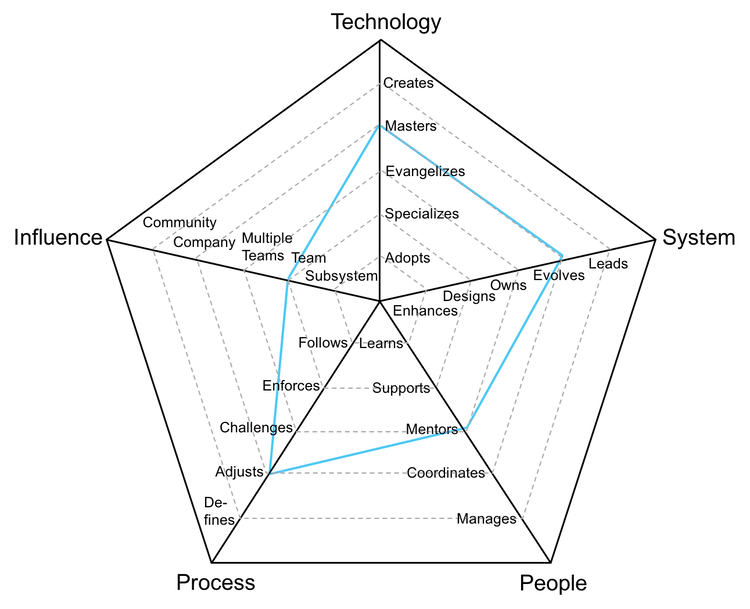
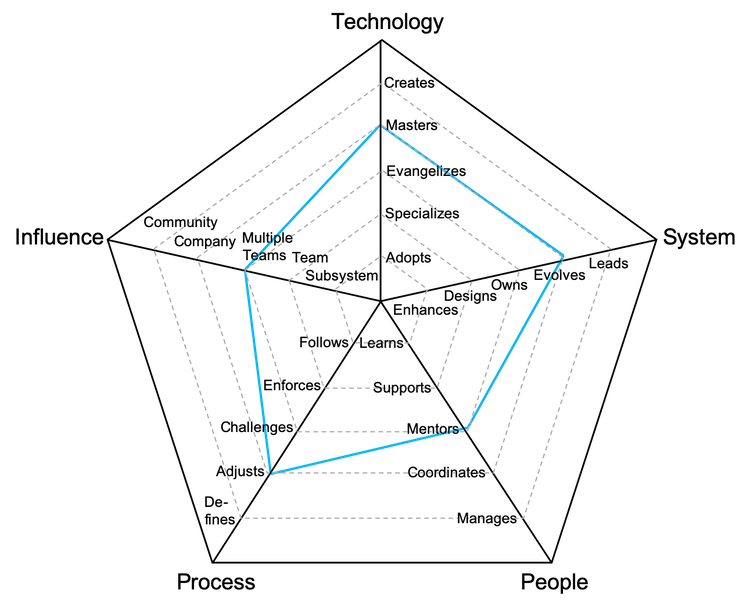
Added individual roles

diff --git a/README.md b/README.md
@@ -1,6 +1,15 @@
-# Engineering Ladders
+- [Introduction](#introduction)
+- [Career Ladders](#career-ladders)
+- [Axes](#axes)
+- [Levels](#levels)
+  - [Technology](#technology)
+  - [System](#system)
+  - [People](#people)
+  - [Process](#process)
+  - [Influence](#influence)
+- [FAQs](#faqs)
 
-## Introduction
+# Introduction
 
 This framework allows software engineering managers to have meaningful conversations with direct reports around the expectations of each position and how to plan for the next level in their career ladder.
 
@@ -10,12 +19,35 @@ The framework relies heavily in radar charts to show visually the different pers
 
 ![Template Chart](charts/template.png)
 
+# Career Ladders
+
+The framework has 4 different ladders:
+
+* [**Developer**](Developer.md): role also known as programmer or software engineer, requires a deep level of technical expertise
+* [**Tech Lead**](TechLead.md): role also known as dev lead, owns the system and requires a unique balance between hands-on development, architecture knowledge and production support
+* [**Technical Program Manager**](TechnicalProgramManager.md): role responsible for coordinating and driving to completion initiatives that expand multiple teams
+* [**Engineering Manager**](EngineeringManager.md): role also known as dev manager, is reponsible for the consisten delivery, career growth and level of happiness of the team
+
+| Level | Seniority | [Developer](Developer.md) | [Tech Lead](TechLead.md) | [Technical Program Manager](TechnicalProgramManager.md) | [Engineering Manager](EngineeringManager.md) |
+| :---: | :---: | :---: | :---: | :---: |  :---: |
+| 1 | Junior | [D1](Developer.md#d1---developer-1) | | | |
+| 2 | Junior | [D2](Developer.md#d2---developer-2) | | | |
+| 3 | Junior | [D3](Developer.md#d3---developer-3) | | | |
+| 4 | Senior | [D4](Developer.md#d4---developer-4) | [TL4](TechLead.md#tl4---tech-lead-4) | [TPM4](TechnicalProgramManager.md#tpm4---technical-program-manager-4) | |
+| 5 | Senior | [D5](Developer.md#d5---developer-5) | [TL5](TechLead.md#tl5---tech-lead-5) | [TPM5](TechnicalProgramManager.md#tpm5---technical-program-manager-5) | [EM5](EngineeringManager.md#em5---engineering-manager-5) |
+| 6 | Senior | [D6](Developer.md#d6---developer-6) | [TL6](TechLead.md#tl6---tech-lead-6) | [TPM6](TechnicalProgramManager.md#tpm6---technical-program-manager-6) | [EM6](EngineeringManager.md#em6---engineering-manager-6) |
+| 7 | Senior | [D7](Developer.md#d7---developer-7) | [TL7](TechLead.md#tl7---tech-lead-7) | [TPM7](TechnicalProgramManager.md#tpm7---technical-program-manager-7) | [EM7](EngineeringManager.md#em7---engineering-manager-7) |
+
+(click on position name for more details)
+
+# Axes
+
 The chart above has 5 axes:
 * **Technology**: knowledge of the tech stack and tools
 * **System**: level of ownership of the system(s)
 * **People**: relationship with the team(s)
 * **Process**: level of engagement with the development process
-* **Influence**: scope of influence of the person
+* **Influence**: scope of influence of the position
 
 The **influence** axis can be seen as a *different dimension* since it is orthogonal and applies to all the other axes.
 
@@ -23,9 +55,9 @@ Each axis has 5 different levels of performance. It is important to highlight th
 
 Keep reading to better understand each level.
 
-## Levels
+# Levels
 
-### Technology
+## Technology
 
 1. **Adopts**: actively learns and adopts the technology and tools defined by the team
 2. **Specializes**: is the go-to person for one or more technologies and takes initiative to learn new ones
@@ -33,7 +65,7 @@ Keep reading to better understand each level.
 4. **Masters**: has very deep knowledge about the whole technology stack of the system
 5. **Creates**: designs and creates new technologies that are widely used either by internal or external teams
 
-### System
+## System
 
 1. **Enhances**: successfully pushes new features and bug fixes to improve and extend the system
 2. **Designs**: designs and implements medium to large size features while reducing the system's tech debt
@@ -41,7 +73,7 @@ Keep reading to better understand each level.
 4. **Evolves**: evolves the architecture to support future requirenments and defines its SLAs
 5. **Leads**: leads the technical excellence of the system and creates plans to mitigate outages
 
-### People
+## People
 
 1. **Learns**: quickly learns from others and consistently steps up when it is required
 2. **Supports**: proactively supports other team members and helps them to be successful
@@ -49,7 +81,7 @@ Keep reading to better understand each level.
 4. **Coordinates**: coordinates team members providing effective feedback and moderating discussions
 5. **Manages**: manages the team members' career, expectations, performance and level of happiness
 
-### Process
+## Process
 
 1. **Follows**: follows the team processes, delivering a consistent flow of features to production
 2. **Enforces**: enforces the team processes, making sure everybody understands the benefits and tradeoffs
@@ -57,7 +89,7 @@ Keep reading to better understand each level.
 4. **Adjusts**: adjusts the team processes, listening to feedback and guiding the team through the changes
 5. **Defines**: defines the right processes for the team's maturity level, balancing agility and discipline
 
-### Influence
+## Influence
 
 1. **Subsystem**: makes an impact on one or more subsystems or team pods
 2. **Team**: makes an impact on the whole team, not just on specific parts of it
@@ -65,25 +97,16 @@ Keep reading to better understand each level.
 4. **Company**: makes an impact on the whole tech organization
 5. **Community**: makes an impact on the tech community
 
-## Career Ladders
+# FAQs
 
-* **Developer**: role also known as programmer or software engineer, requires a deep level of technical expertise
-* **Tech Lead**: also known as dev lead, owns the system and requires a unique balance between hands-on development, architecture knowledge and production support
-* **TPM**: the technical project (or program) manager role is usually responsible for coordinating initiatives that expand multiple teams
-* **Engineering Manager**: role sometimes known as dev manager, is reponsible for the consisten delivery, career growth and level of happiness of the team
+**What if some of the people don't fit all the points?**
 
-| Level | Developer | Tech Lead | TPM | Engineering Manager |
-| :---: | :---: | :---: | :---: | :---: |
-| 1 | D1 | | | |
-| 2 | D2 | | | |
-| 3 | D3 | | | |
-| 4 | D4 | TL4 | TPM4 | |
-| 5 | D5 | TL5 | TPM5 | EM5 |
-| 6 | D6 | TL6 | TPM6 | EM6 |
-| 7 | D7 | TL7 | TPM7 | EM7 |
+That is very normal, people are usually stronger in some areas and weaker in others. The framework should not be used as a checklist to promote people but instead as guidance to have meaningful career conversations.
 
-(links for each level to come)
+**When is a person ready to move to the next level**
 
-### Why does the framework stop at level 7?
+Companies usually expect a person to be performing at the next level *consistently for several months* before formalizing the promotion.
+
+**Why does the framework stop at level 7?**
 
 Levels 8 and above vary drastically from company to company. Organizations of different sizes tend to assign inconsistent levels of responsibility to positions so high in their structure.

diff --git a/Developer.md b/Developer.md
@@ -1,0 +1,83 @@
+# Developer
+
+Role also known as programmer or software engineer, requires a deep level of technical expertise.
+
+| Level | Seniority | Position |
+| :---: | :---: | :---: |
+| 1 | Junior | [D1 - Developer 1](#d1---developer-1) |
+| 2 | Junior | [D2 - Developer 2](#d2---developer-2) |
+| 3 | Junior | [D3 - Developer 3](#d3---developer-3) |
+| 4 | Senior | [D4 - Developer 4](#d4---developer-4) |
+| 5 | Senior | [D5 - Developer 5](#d5---developer-5) |
+| 6 | Senior | [D6 - Developer 6](#d6---developer-6) |
+| 7 | Senior | [D7 - Developer 7](#d7---developer-7) |
+
+## D1 - Developer 1
+
+![Developer 1](/charts/developer-1.png)
+
+* **Adopts**: actively learns and adopts the technology and tools defined by the team
+* **Enhances**: successfully pushes new features and bug fixes to improve and extend the system
+* **Learns**: quickly learns from others and consistently steps up when it is required
+* **Follows**: follows the team processes, delivering a consistent flow of features to production
+* **Subsystem**: makes an impact on one or more subsystems or team pods
+
+## D2 - Developer 2
+
+![Developer 2](/charts/developer-2.png)
+
+* **Adopts**: actively learns and adopts the technology and tools defined by the team
+* **Designs**: designs and implements medium to large size features while reducing the system's tech debt
+* **Supports**: proactively supports other team members and helps them to be successful
+* **Enforces**: enforces the team processes, making sure everybody understands the benefits and tradeoffs
+* **Subsystem**: makes an impact on one or more subsystems or team pods
+
+## D3 - Developer 3
+
+![Developer 3](/charts/developer-3.png)
+
+* **Specializes**: is the go-to person for one or more technologies and takes initiative to learn new ones
+* **Designs**: designs and implements medium to large size features while reducing the system's tech debt
+* **Supports**: proactively supports other team members and helps them to be successful
+* **Challenges**: challenges the team processes, looking for ways to improve them
+* **Team**: makes an impact on the whole team, not just on specific parts of it
+
+## D4 - Developer 4
+
+![Developer 4](/charts/developer-4.png)
+
+* **Evangelizes**: researches, creates proofs of concept and introduces new technologies to the team
+* **Owns**: owns the production operation and monitoring of the system and is aware of its SLAs
+* **Mentors**: mentors other to accelerate their career-growth and encourages them to participate
+* **Challenges**: challenges the team processes, looking for ways to improve them
+* **Team**: makes an impact on the whole team, not just on specific parts of it
+
+## D5 - Developer 5
+
+![Developer 5](/charts/developer-5.png)
+
+* **Masters**: has very deep knowledge about the whole technology stack of the system
+* ***Evolves**: evolves the architecture to support future requirenments and defines its SLAs
+* **Mentors**: mentors other to accelerate their career-growth and encourages them to participate
+* **Adjusts**: adjusts the team processes, listening to feedback and guiding the team through the changes
+* **Multiple Teams**: makes an impact not only on the whole team but also on other teams
+
+## D6 - Developer 6
+
+![Developer 6](/charts/developer-6.png)
+
+* **Creates**: designs and creates new technologies that are widely used either by internal or external teams
+* **Leads**: leads the technical excellence of the system and creates plans to mitigate outages
+* **Mentors**: mentors other to accelerate their career-growth and encourages them to participate
+* **Adjusts**: adjusts the team processes, listening to feedback and guiding the team through the changes
+* **Company**: makes an impact on the whole tech organization
+
+## D7 - Developer 7
+
+![Developer 7](/charts/developer-7.png)
+
+* **Creates**: designs and creates new technologies that are widely used either by internal or external teams
+* **Leads**: leads the technical excellence of the system and creates plans to mitigate outages
+* **Mentors**: mentors other to accelerate their career-growth and encourages them to participate
+* **Adjusts**: adjusts the team processes, listening to feedback and guiding the team through the changes
+* **Community**: makes an impact on the tech community

diff --git a/TechnicalProgramManager.md b/TechnicalProgramManager.md
@@ -1,0 +1,51 @@
+# Technical Program Manager
+
+Role responsible for coordinating and driving to completion initiatives that expand multiple teams.
+
+| Level | Seniority | Position |
+| :---: | :---: | :---: |
+| 4 | Senior | [TPM4 - Technical Program Manager 4](#tpm4---technical-program-manager-4) |
+| 5 | Senior | [TPM5 - Technical Program Manager 5](#tpm5---technical-program-manager-5) |
+| 6 | Senior | [TPM6 - Technical Program Manager 6](#tpm6---technical-program-manager-6) |
+| 7 | Senior | [TPM7 - Technical Program Manager 7](#tpm7---technical-program-manager-7) |
+
+
+## TPM4 - Technical Program Manager 4
+
+![Technical Program Manager 4](/charts/tpm-4.png)
+
+* **Specializes**: is the go-to person for one or more technologies and takes initiative to learn new ones
+* **Designs**: designs and implements medium to large size features while reducing the system's tech debt
+* **Coordinates**: coordinates team members providing effective feedback and moderating discussions
+* **Adjusts**: adjusts the team processes, listening to feedback and guiding the team through the changes
+* **Multiple Teams**: makes an impact not only on the whole team but also on other teams
+
+## TPM5 - Technical Program Manager 5
+
+![Technical Program Manager 5](/charts/tpm-5.png)
+
+* **Specializes**: is the go-to person for one or more technologies and takes initiative to learn new ones
+* **Designs**: designs and implements medium to large size features while reducing the system's tech debt
+* **Coordinates**: coordinates team members providing effective feedback and moderating discussions
+* **Defines**: defines the right processes for the team's maturity level, balancing agility and discipline
+* **Multiple Teams**: makes an impact not only on the whole team but also on other teams
+
+## TPM6 - Technical Program Manager 6
+
+![Technical Program Manager 6](/charts/tpm-6.png)
+
+* **Specializes**: is the go-to person for one or more technologies and takes initiative to learn new ones
+* **Owns**: owns the production operation and monitoring of the system and is aware of its SLAs
+* **Coordinates**: coordinates team members providing effective feedback and moderating discussions
+* **Defines**: defines the right processes for the team's maturity level, balancing agility and discipline
+* **Company**: makes an impact on the whole tech organization
+
+## TPM7 - Technical Program Manager 7
+
+![Technical Program Manager 7](/charts/tpm-7.png)
+
+* **Specializes**: is the go-to person for one or more technologies and takes initiative to learn new ones
+* **Owns**: owns the production operation and monitoring of the system and is aware of its SLAs
+* **Coordinates**: coordinates team members providing effective feedback and moderating discussions
+* **Defines**: defines the right processes for the team's maturity level, balancing agility and discipline
+* **Community**: makes an impact on the tech community

diff --git a/TechLead.md b/TechLead.md
@@ -1,0 +1,51 @@
+# Tech Lead
+
+Role also known as programmer or software engineer, requires a deep level of technical expertise.
+
+| Level | Seniority | Position |
+| :---: | :---: | :---: |
+| 4 | Senior | [TL4 - Tech Lead 4](#tl4---tech-lead-4) |
+| 5 | Senior | [TL5 - Tech Lead 5](#tl5---tech-lead-5) |
+| 6 | Senior | [TL6 - Tech Lead 6](#tl6---tech-lead-6) |
+| 7 | Senior | [TL7 - Tech Lead 7](#tl7---tech-lead-7) |
+
+
+## TL4 - Tech Lead 4
+
+![Tech Lead 4](/charts/techlead-4.png)
+
+* **Specializes**: is the go-to person for one or more technologies and takes initiative to learn new ones
+* **Owns**: owns the production operation and monitoring of the system and is aware of its SLAs
+* **Coordinates**: coordinates team members providing effective feedback and moderating discussions
+* **Adjusts**: adjusts the team processes, listening to feedback and guiding the team through the changes
+* **Subsystem**: makes an impact on one or more subsystems or team pods
+
+## TL5 - Tech Lead 5
+
+![Tech Lead 5](/charts/techlead-5.png)
+
+* **Evangelizes**: researches, creates proofs of concept and introduces new technologies to the team
+* **Evolves**: evolves the architecture to support future requirenments and defines its SLAs
+* **Coordinates**: coordinates team members providing effective feedback and moderating discussions
+* **Defines**: defines the right processes for the team's maturity level, balancing agility and discipline
+* **Team**: makes an impact on the whole team, not just on specific parts of it
+
+## TL6 - Tech Lead 6
+
+![Tech Lead 6](/charts/techlead-6.png)
+
+* **Masters**: has very deep knowledge about the whole technology stack of the system
+* **Leads**: leads the technical excellence of the system and creates plans to mitigate outages
+* **Coordinates**: coordinates team members providing effective feedback and moderating discussions
+* **Defines**: defines the right processes for the team's maturity level, balancing agility and discipline
+* **Multiple Teams**: makes an impact not only on the whole team but also on other teams
+
+## TL7 - Tech Lead 7
+
+![Tech Lead 7](/charts/techlead-7.png)
+
+* **Masters**: has very deep knowledge about the whole technology stack of the system
+* **Leads**: leads the technical excellence of the system and creates plans to mitigate outages
+* **Coordinates**: coordinates team members providing effective feedback and moderating discussions
+* **Defines**: defines the right processes for the team's maturity level, balancing agility and discipline
+* **Company**: makes an impact on the whole tech organization

diff --git a/EngineeringManager.md b/EngineeringManager.md
@@ -1,0 +1,40 @@
+# Engineering Manager
+
+Role also known as dev manager, is reponsible for the consisten delivery, career growth and level of happiness of the team.
+
+| Level | Seniority | Position |
+| :---: | :---: | :---: |
+| 5 | Senior | [EM5 - Engineering Manager 5](#em5---engineering-manager-5) |
+| 6 | Senior | [EM6 - Engineering Manager 6](#em6---engineering-manager-6) |
+| 7 | Senior | [EM7 - Engineering Manager 7](#em7---engineering-manager-7) |
+
+
+## EM5 - Engineering Manager 5
+
+![Engineering Manager 5](/charts/engineeringmanager-5.png)
+
+* **Evangelizes**: researches, creates proofs of concept and introduces new technologies to the team
+* **Owns**: owns the production operation and monitoring of the system and is aware of its SLAs
+* **Manages**: manages the team members' career, expectations, performance and level of happiness
+* **Adjusts**: adjusts the team processes, listening to feedback and guiding the team through the changes
+* **Team**: makes an impact on the whole team, not just on specific parts of it
+
+## EM6 - Engineering Manager 6
+
+![Engineering Manager 5](/charts/engineeringmanager-6.png)
+
+* **Evangelizes**: researches, creates proofs of concept and introduces new technologies to the team
+* **Evolves**: evolves the architecture to support future requirenments and defines its SLAs
+* **Manages**: manages the team members' career, expectations, performance and level of happiness
+* **Defines**: defines the right processes for the team's maturity level, balancing agility and discipline
+* **Team**: makes an impact on the whole team, not just on specific parts of it
+
+## EM7 - Engineering Manager 7
+
+![Engineering Manager 5](/charts/engineeringmanager-7.png)
+
+* **Evangelizes**: researches, creates proofs of concept and introduces new technologies to the team
+* **Evolves**: evolves the architecture to support future requirenments and defines its SLAs
+* **Manages**: manages the team members' career, expectations, performance and level of happiness
+* **Defines**: defines the right processes for the team's maturity level, balancing agility and discipline
+* **Multiple Teams**: makes an impact not only on the whole team but also on other teams
